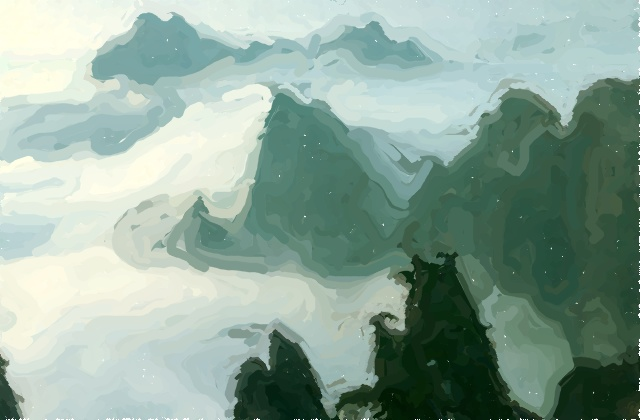
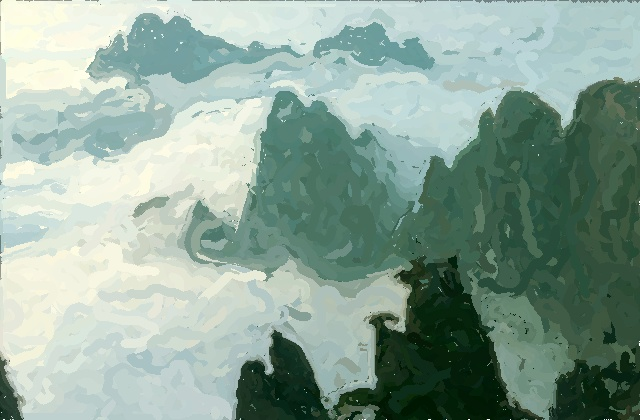
Add timing and gaussian parallel

diff --git a/painterly_rendering.cpp b/painterly_rendering.cpp
@@ -8,9 +8,13 @@
 #include <limits>
 #include <algorithm>
 #include <string> 
+#include "utils.h"
+#include <omp.h>
 
 using namespace cv;
 using namespace std;
+
+#define M_PI 3.14159265358979323846
 
 /**** SET DEFAULT VALUE(IMPRESSIONIST) ****/
 int T = 100; // Approximation threshold
@@ -27,9 +31,11 @@ float j_v = 0.0f; // Color jitter factor V
 float j_r = 0.0f; // Color jitter factor R
 float j_g = 0.0f; // Color jitter factor G
 float j_b = 0.0f; // Color jitter factor B
-
+Mat GKernel;
 vector<Point> sobel_vec;
 int style;
+Timer t;
+vector<double> times;
 // const float SobelMatrixX[]={
 //         1.0f, 0.0f, -1.0f,
 //         2.0f, 0.0f , -2.0f,
@@ -83,7 +89,7 @@ Point2f gradientDirection(int x,int y, int width){
     return direction;
 }
 
-int xGradient(Mat image, int x, int y)
+/*int xGradient(Mat image, int x, int y)
 {
     return  image.at<uchar>(y-1, x-1) +
             2*image.at<uchar>(y, x-1) +
@@ -101,31 +107,105 @@ int yGradient(Mat image, int x, int y)
             image.at<uchar>(y+1, x-1) -
             2*image.at<uchar>(y+1, x) -
             image.at<uchar>(y+1, x+1);
+}*/
+Point Gradient(Mat image, int x, int y) {
+    Point v;
+    v.x =  image.at<uchar>(y-1, x-1) + 2*image.at<uchar>(y, x-1) + image.at<uchar>(y+1, x-1) 
+            - image.at<uchar>(y-1, x+1) - 2*image.at<uchar>(y, x+1) - image.at<uchar>(y+1, x+1); 
+    v.y = image.at<uchar>(y-1, x-1) + 2*image.at<uchar>(y-1, x) + image.at<uchar>(y-1, x+1) 
+            - image.at<uchar>(y+1, x-1) - 2*image.at<uchar>(y+1, x) - image.at<uchar>(y+1, x+1);
+    return v;
 }
-
 void calculateSobelVectors(Mat ref){
     int gx, gy, sum;
 
     Mat ref_grey;
     cvtColor( ref, ref_grey, CV_BGR2GRAY );
-
-    Point v;
-    for(int y = 0; y < ref_grey.rows; y++){
+#if 0
+    #pragma omp parallel
+    {
+        Point v;
+        #pragma omp for nowait
         for(int x = 0; x < ref_grey.cols; x++){
             v.x=0;
             v.y=0;
-            sobel_vec[y*ref.cols+x]=v;
+            sobel_vec[x]=v;
+            sobel_vec[(ref_grey.rows-1)*ref.cols+x]=v;
+        }
+        #pragma omp for nowait
+        for(int y = 0; y < ref_grey.rows; y++){
+            v.x=0;
+            v.y=0;
+            sobel_vec[y*ref.cols]=v;
+            sobel_vec[y*ref.cols+(ref_grey.cols-1)]=v;
+        }
+        #pragma omp for collapse(2)   
+        for(int y = 1; y < ref_grey.rows - 1; y++){
+            for(int x = 1; x < ref_grey.cols - 1; x++){
+               /* gx = xGradient(ref_grey, x, y);
+                v.x=gx;
+                gy = yGradient(ref_grey, x, y);
+                v.y=gy;*/
+                sobel_vec[y*ref.cols+x]=Gradient(ref_grey, x, y);
+            }
         }
     }
-
+#endif
+    Point v;
+    for(int x = 0; x < ref_grey.cols; x++){
+        v.x=0;
+        v.y=0;
+        sobel_vec[x]=v;
+        sobel_vec[(ref_grey.rows-1)*ref.cols+x]=v;
+    }
+    for(int y = 0; y < ref_grey.rows; y++){
+        v.x=0;
+        v.y=0;
+        sobel_vec[y*ref.cols]=v;
+        sobel_vec[y*ref.cols+(ref_grey.cols-1)]=v;
+    }
     for(int y = 1; y < ref_grey.rows - 1; y++){
         for(int x = 1; x < ref_grey.cols - 1; x++){
-            gx = xGradient(ref_grey, x, y);
-            v.x=gx;
-            gy = yGradient(ref_grey, x, y);
-            v.y=gy;
-            sobel_vec[y*ref.cols+x]=v;
+            sobel_vec[y*ref.cols+x]=Gradient(ref_grey, x, y);
         }
+    }
+}
+void generateGaussian(double sigma) {
+    GKernel = Mat::zeros(5, 5, CV_64F);
+    double sum = 0.0, s = 2.0*sigma*sigma;
+    //cout<<sigma<<":"<<endl;
+    for (int x = -2; x <= 2; x++) { 
+        for (int y = -2; y <= 2; y++) {
+            double value = (exp(-(x*x+y*y) / s)) / (M_PI * s);
+            GKernel.at<double>(x+2,y+2) =  value;
+            sum+=value;
+        } 
+    } 
+    for(int x=0; x<5; x++) {
+        for(int y=0; y<5; y++) {
+            GKernel.at<double>(x,y) = (GKernel.at<double>(x,y)/sum); 
+        }
+    }
+}
+/*void GaussianBlur_serial(Mat src, Mat dst) {
+    filter2D(src, dst, -1 , GKernel);
+}*/
+void GaussianBlur_parallel(Mat src, Mat dst) {
+   #pragma omp parallel for collapse(2) 
+    for(int x = 0; x < src.rows; x++) {
+        for( int y = 0; y < src.cols; y++) {
+            double pix[3] = { 0, 0, 0 };
+            for(int i=-2;i<=2;i++){
+                for(int j=-2;j<=2;j++){
+                    if(x+i<0 || x+i >=src.rows || y+j<0 || y+j>=src.cols)   continue;
+                    Vec3b intensity = src.at<Vec3b>(x+i,y+j);
+                    pix[0] += ((double)intensity[0])*GKernel.at<double>(i+2,j+2);
+                    pix[1] += ((double)intensity[1])*GKernel.at<double>(i+2,j+2);
+                    pix[2] += ((double)intensity[2])*GKernel.at<double>(i+2,j+2);
+                }
+            }
+            dst.at<Vec3b>(x,y) = { (uchar)pix[0], (uchar)pix[1], (uchar)pix[2] };
+        } 
     }
 }
 
@@ -216,13 +296,14 @@ Vec3b setStrokeColor(Vec3b originalColor){
 }
 
 void makeSplineStroke(Mat canvas,Point p0,int R, Mat refImage, Mat Diff, Mat paintArea){
+    t.tic();
     Vec3b strokeColor = setStrokeColor(refImage.at<Vec3b>(p0));
     vector<Point> K; //a new stroke with radius R and color strokeColor
     K.push_back(p0); 
     Point point = p0;
     Point2f lastD(0.0,0.0);
     for(int i=1; i<maxLength; i++){
-        if(i>minLength && pointDiff(point.x,point.y,Diff,paintArea)<colorabsDiff(refImage.at<Vec3b>(point),strokeColor))
+        if(i>minLength && pointDiff(point.x,point.y,Diff,paintArea)<colorabsDiff(refImage.at<Vec3b>(point),strokeColor)) 
             break;
         if(gradientMag(point.x,point.y,refImage.cols)==0)
             break;
@@ -248,15 +329,25 @@ void makeSplineStroke(Mat canvas,Point p0,int R, Mat refImage, Mat Diff, Mat pai
         lastD.y=delta.y;
         K.push_back(point);
     }
+    if(times.size() < 5)    
+        times.push_back(t.toc());   //times[4]
+    else
+        times[4] += t.toc();
+    t.tic();
     paintStroke(canvas,paintArea,K,strokeColor,R); // paint stroke onto canvas, and record drawn pixel with white color
+    if(times.size() < 6)    
+        times.push_back(t.toc());   //times[5]
+    else
+        times[5] += t.toc();
 }
-
-
 void paintLayer(Mat canvas,Mat refImage,int brushRadius,Mat paintArea){
     vector<Point> S; // set of Strokes
     int grid=round(brushRadius*f_g); //grid size
     Mat Diff; // difference image
+    t.tic();
     absdiff(canvas,refImage,Diff);
+    times.push_back(t.toc());   //times[2]
+    t.tic();
     for(int x=0;x<canvas.cols;x+=grid){
         for(int y=0;y<canvas.rows;y+=grid){
             float largestError = numeric_limits<float>::min();
@@ -285,6 +376,8 @@ void paintLayer(Mat canvas,Mat refImage,int brushRadius,Mat paintArea){
         }
     }
     random_shuffle(S.begin(),S.end()); // shuffle all strokes to random order
+    times.push_back(t.toc());   //times[3]
+    printf("stroke count %d ", S.size());
     while(S.size()!=0){
         Point p0 = S.back();
         S.pop_back();
@@ -331,8 +424,15 @@ void Paint(Mat src){
     sobel_vec.resize(src.rows*src.cols);
     for(int Ri=maxRadius; Ri>1; Ri/=2){
         // imwrite("final_"+to_string(style)+"_layer_"+to_string(Ri)+".jpg", canvas);
-        GaussianBlur(src, refImage, Size(0,0), Ri*f_s, Ri*f_s);
+        //GaussianBlur(src, refImage, Size(5,5), Ri*f_s, Ri*f_s);
+		//GaussianBlur_serial(src, refImage);
+        generateGaussian(Ri*f_s);
+        t.tic();
+        GaussianBlur_parallel(src, refImage);
+        times.push_back(t.toc());   //times[0]
+        t.tic();
         calculateSobelVectors(refImage);
+        times.push_back(t.toc());   //times[1]
         // Mat sobImage(src.rows, src.cols, CV_8UC1);
         // for(int x=0;x<src.cols;x++){
         //     for(int y=0;y<src.rows;y++){
@@ -342,15 +442,18 @@ void Paint(Mat src){
         // }
         // imwrite("sobtest.jpg", sobImage);
         paintLayer(canvas,refImage,Ri,paintArea);
+        printf("radius %d : blurring %10f, sobel %10f, diff %10f, strokpoint %10f, strokedetail %10f, drawstroke %10f\n\n", 
+                        Ri, times[0], times[1], times[2], times[3], times[4], times[5]);
+        times.clear();
     }
     imwrite("final_"+to_string(style)+".jpg", canvas);
 }  
 
 int main( int argc, char** argv )
 {
-    if( argc != 3)
+    if( argc != 4)
     {
-     cout <<" Usage: painterly_rendering <image_file> <paint_style:0~3>" << endl;
+     cout <<" Usage: painterly_rendering <image_file> <paint_style:0~3> <num_thread>" << endl;
      return -1;
     }
 
@@ -363,6 +466,8 @@ int main( int argc, char** argv )
         return -1;
     }
     style = atoi(argv[2]);
+    int numThreads = atoi(argv[3]); 
+    omp_set_num_threads(numThreads);
     setStyle();
     Paint(image);
 
